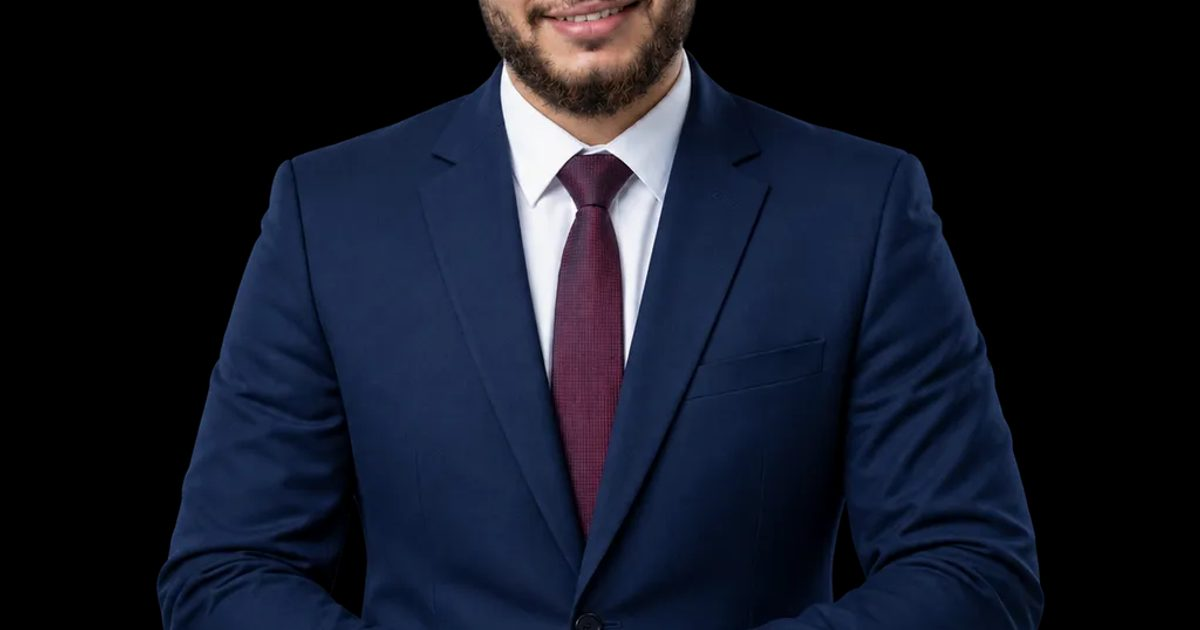
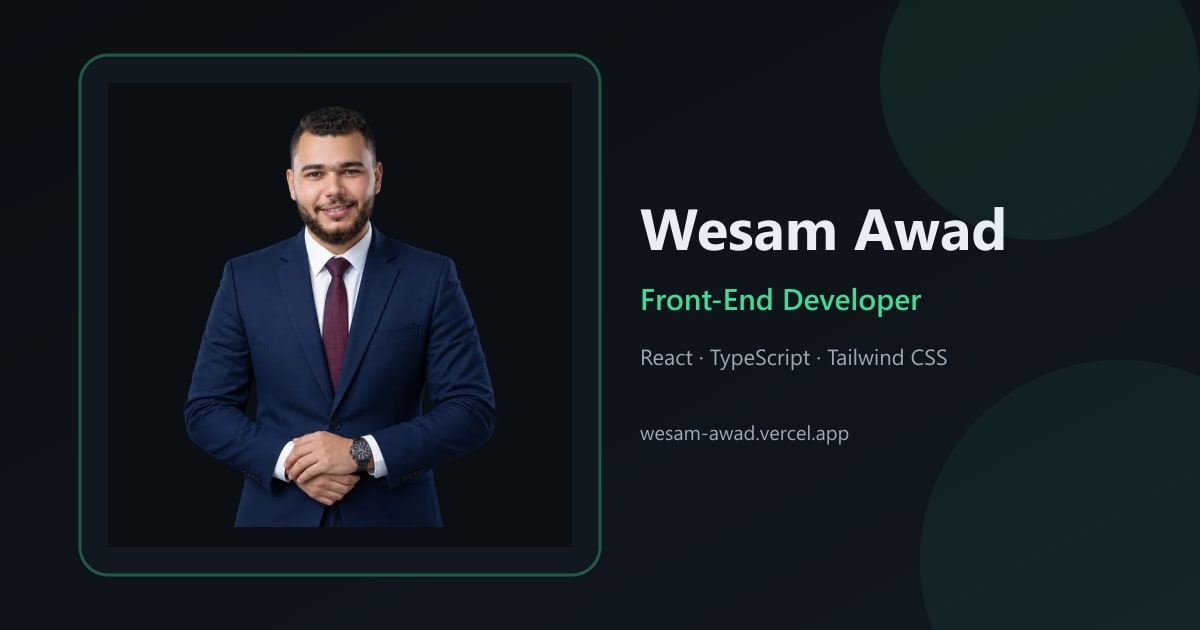
new aupdates

diff --git a/index.html b/index.html
@@ -17,10 +17,7 @@
     <meta name="author" content="Wesam Awad" />
     <meta name="robots" content="max-image-preview:large" />
     <title>Wesam Awad | Front-End Developer — React &amp; TypeScript</title>
-    <meta
-      name="description"
-      content="Front-End Developer specializing in React, TypeScript &amp; Tailwind CSS. I build fast, accessible web apps with strong UI craft and performance."
-    />
+    <meta name="description" content="Front-End Developer specializing in React, TypeScript &amp; Tailwind CSS. I build fast, accessible web apps with strong UI craft and performance." />
     <link rel="canonical" href="https://wesam-awad.vercel.app/" />
 
     <!-- Open Graph -->
@@ -29,10 +26,7 @@
     <meta property="og:site_name" content="Wesam Awad" />
     <meta property="og:url" content="https://wesam-awad.vercel.app/" />
     <meta property="og:title" content="Wesam Awad | Front-End Developer — React &amp; TypeScript" />
-    <meta
-      property="og:description"
-      content="Front-End Developer specializing in React, TypeScript &amp; Tailwind CSS. I build fast, accessible web apps with strong UI craft and performance."
-    />
+    <meta property="og:description" content="Front-End Developer in React, TypeScript &amp; Tailwind CSS. Building fast, accessible apps with strong UI craft." />
     <meta property="og:image" content="https://wesam-awad.vercel.app/og-image.jpg" />
     <meta property="og:image:type" content="image/jpeg" />
     <meta property="og:image:width" content="1200" />
@@ -42,38 +36,19 @@
     <!-- Twitter / X -->
     <meta name="twitter:card" content="summary_large_image" />
     <meta name="twitter:title" content="Wesam Awad | Front-End Developer — React &amp; TypeScript" />
-    <meta
-      name="twitter:description"
-      content="Front-End Developer specializing in React, TypeScript &amp; Tailwind CSS. I build fast, accessible web apps with strong UI craft and performance."
-    />
+    <meta name="twitter:description" content="Front-End Developer in React, TypeScript &amp; Tailwind CSS. Building fast, accessible apps with strong UI craft." />
     <meta name="twitter:image" content="https://wesam-awad.vercel.app/og-image.jpg" />
     <meta name="twitter:image:alt" content="Wesam Awad, Front-End Developer" />
 
     <!-- LCP: discoverable from the initial HTML (responsive candidates) -->
-    <link
-      rel="preload"
-      as="image"
-      href="/profile-800.webp"
-      imagesrcset="/profile-640.webp 640w, /profile-800.webp 800w, /profile.webp 1024w"
-      imagesizes="(max-width: 768px) min(100vw, 28rem), 32rem"
-      type="image/webp"
-      fetchpriority="high"
-    />
+    <link rel="preload" as="image" href="/profile-800.webp" imagesrcset="/profile-640.webp 640w, /profile-800.webp 800w, /profile.webp 1024w" imagesizes="(max-width: 768px) min(100vw, 28rem), 32rem" type="image/webp" fetchpriority="high" />
 
     <link rel="preconnect" href="https://fonts.googleapis.com" />
     <link rel="preconnect" href="https://fonts.gstatic.com" crossorigin />
     <!-- Non-blocking Google Fonts — only families/weights used in the UI -->
-    <link
-      rel="stylesheet"
-      href="https://fonts.googleapis.com/css2?family=Manrope:wght@400;500;600;700&family=Space+Grotesk:wght@500;600;700&family=Syne:wght@700&display=swap"
-      media="print"
-      onload="this.media = 'all'"
-    />
+    <link rel="stylesheet" href="https://fonts.googleapis.com/css2?family=Manrope:wght@400;500;600;700&family=Space+Grotesk:wght@500;600;700&family=Syne:wght@700&display=swap" media="print" onload="this.media = 'all'" />
     <noscript>
-      <link
-        rel="stylesheet"
-        href="https://fonts.googleapis.com/css2?family=Manrope:wght@400;500;600;700&family=Space+Grotesk:wght@500;600;700&family=Syne:wght@700&display=swap"
-      />
+      <link rel="stylesheet" href="https://fonts.googleapis.com/css2?family=Manrope:wght@400;500;600;700&family=Space+Grotesk:wght@500;600;700&family=Syne:wght@700&display=swap" />
     </noscript>
 
     <script type="application/ld+json">
